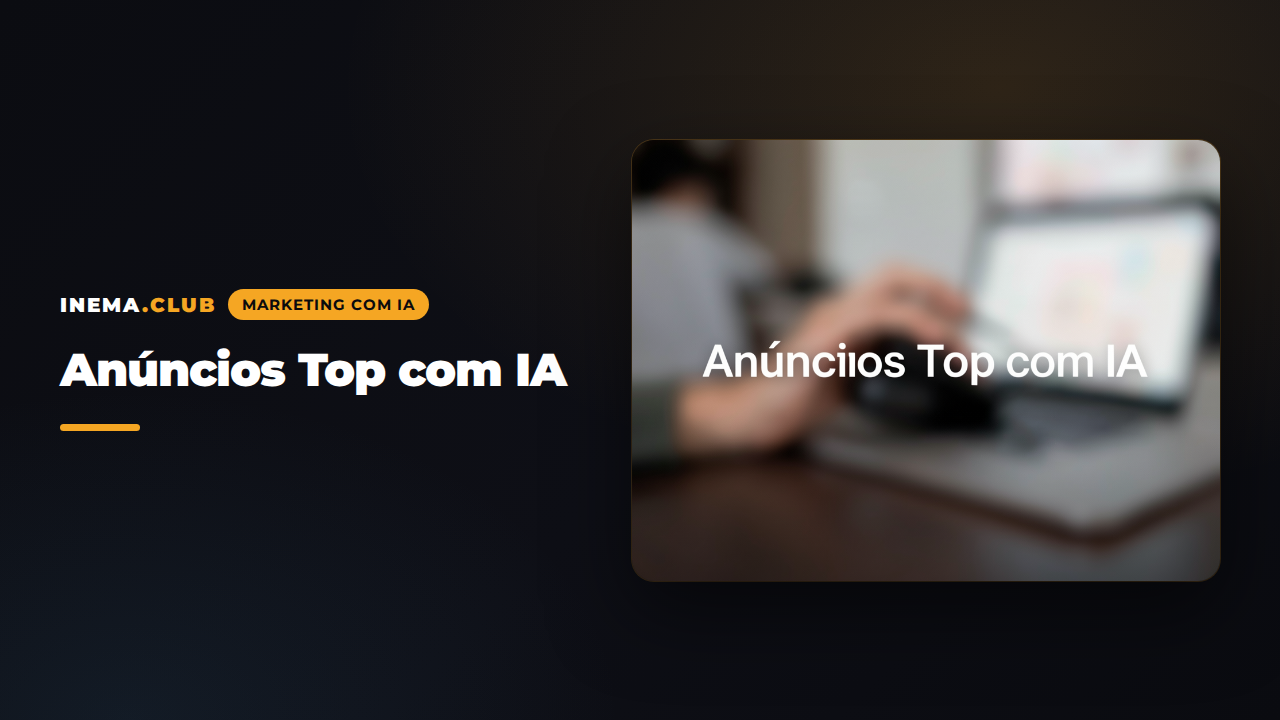
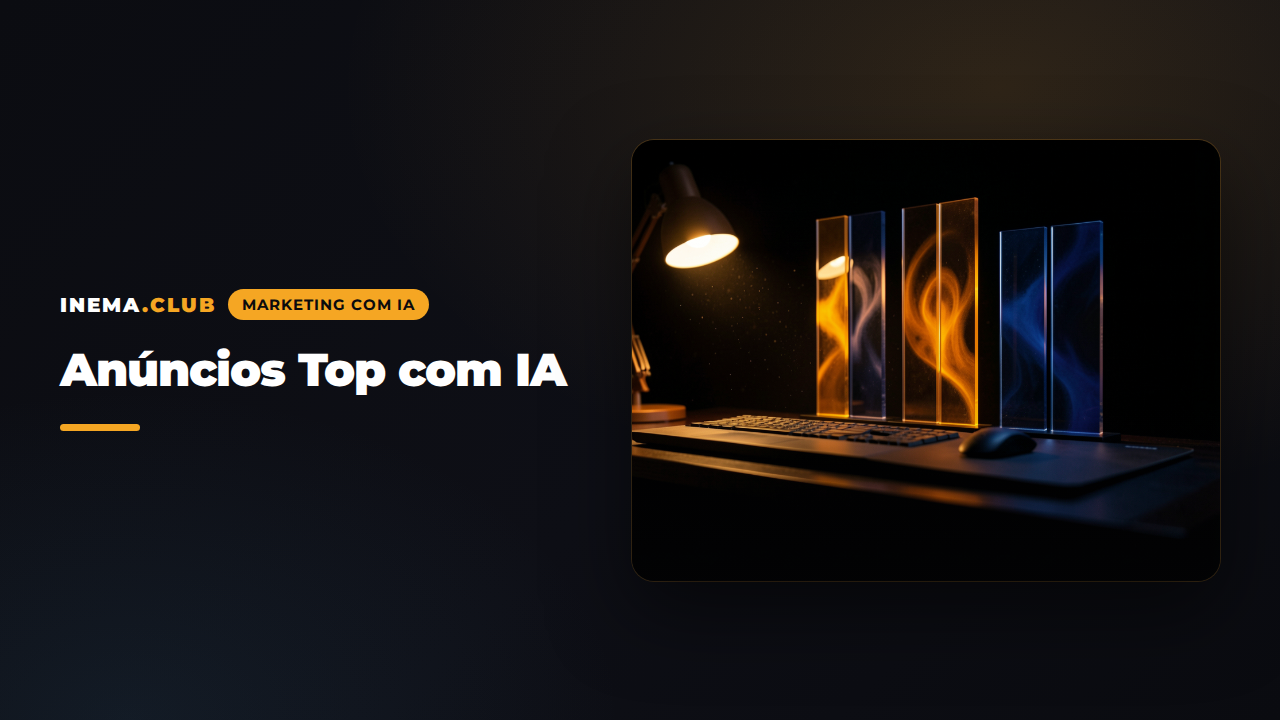
guia: imagens próprias geradas com Codex (hero, fluxo, auditoria) e capa sem o texto alucinado
O hero e a capa anteriores vinham do gerador de capa, que passa o título
na descrição da cena — o modelo de imagem renderizou esse título dentro da
foto, com erro de grafia. Agora as três imagens do guia são geradas sem
texto nenhum, e a capa é refeita com uma cena que não cita o título.

Claude-Session: https://claude.ai/code/session_01SqE1bczVasg9K1AZLbU5iF

Changed region(s): [[0.4688, 0.1833, 0.9688, 0.825]]

diff --git a/guia/index.html b/guia/index.html
@@ -94,6 +94,9 @@
   th{color:var(--amb);font-family:Sora;font-size:.8rem;letter-spacing:.06em;text-transform:uppercase}
   td code{background:var(--bg2);border:1px solid var(--line);border-radius:6px;padding:.05em .4em;font-size:.85em}
   .tbl{overflow-x:auto}
+  .fig{margin:30px 0 0;border-radius:16px;overflow:hidden;border:1px solid var(--line);box-shadow:0 24px 60px -30px #000}
+  .fig img{width:100%;display:block;max-height:430px;object-fit:cover}
+  .fig figcaption{padding:12px 16px;font-size:.86rem;color:var(--mut);background:var(--card)}
 </style>
 </head>
 <body>
@@ -165,6 +168,7 @@
     <tr><td>Os módulos aprovados</td><td><code>/anuncio-edita</code></td><td>O master a 1080×1920 e o SRT, prontos pra subir</td></tr>
   </table></div>
   <p class="sub" style="margin-top:22px">Duas se usam sempre: a que busca a ideia e a que produz. As outras duas são opcionais e existem pra economizar dinheiro quando você já está gerando. <strong>Nenhuma das quatro gasta um centavo por conta própria</strong>: o botão de gerar é seu.</p>
+  <figure class="fig"><img src="assets/fluxo.jpg" alt="Quatro placas de vidro em fila, cada uma passando a luz para a seguinte"><figcaption>Ilustração: cada etapa entrega a seguinte um documento com o que já está decidido.</figcaption></figure>
 </div></section>
 
 <section id="pre"><div class="wrap">
@@ -262,7 +266,7 @@
     <div class="card"><h3>✂ /anuncio-edita</h3><p>Ingestão e diagnóstico, montagem com corte seco e crossfade só no ambiente, três casos de pista de voz, legendas em pastilha com karaokê sutil (via libass ou overlay por PNG), letreiro de fechamento, master EBU R128, menu de intervenções opcionais com critério de editor.</p></div>
   </div>
   <div class="ex" style="margin-top:22px">
-    <figure><img src="assets/capa.jpg" alt="Capa oficial do projeto no catálogo INEMA"><figcaption>Capa oficial no catálogo INEMA. As demonstrações do projeto-fio (menu de dez, dossiê, clipes na Agnes e master) entram aqui conforme o curso é produzido.</figcaption></figure>
+    <figure><img src="assets/auditoria.jpg" alt="Grade de quadros de vídeo com um deles aceso em âmbar"><figcaption>Ilustração da etapa de auditoria: um quadro se conserva, o resto se decide. As demonstrações reais do projeto-fio (menu de dez, dossiê, clipes e master) entram aqui conforme o curso é produzido.</figcaption></figure>
     <div class="card"><h3>Um dossiê de saída, sempre com quatro blocos</h3><pre><span class="k"># O estagiário invisível · 30 s · Agnes</span>
 
 <span class="k">## 1 · Imagens que você precisa criar antes de gerar</span>
